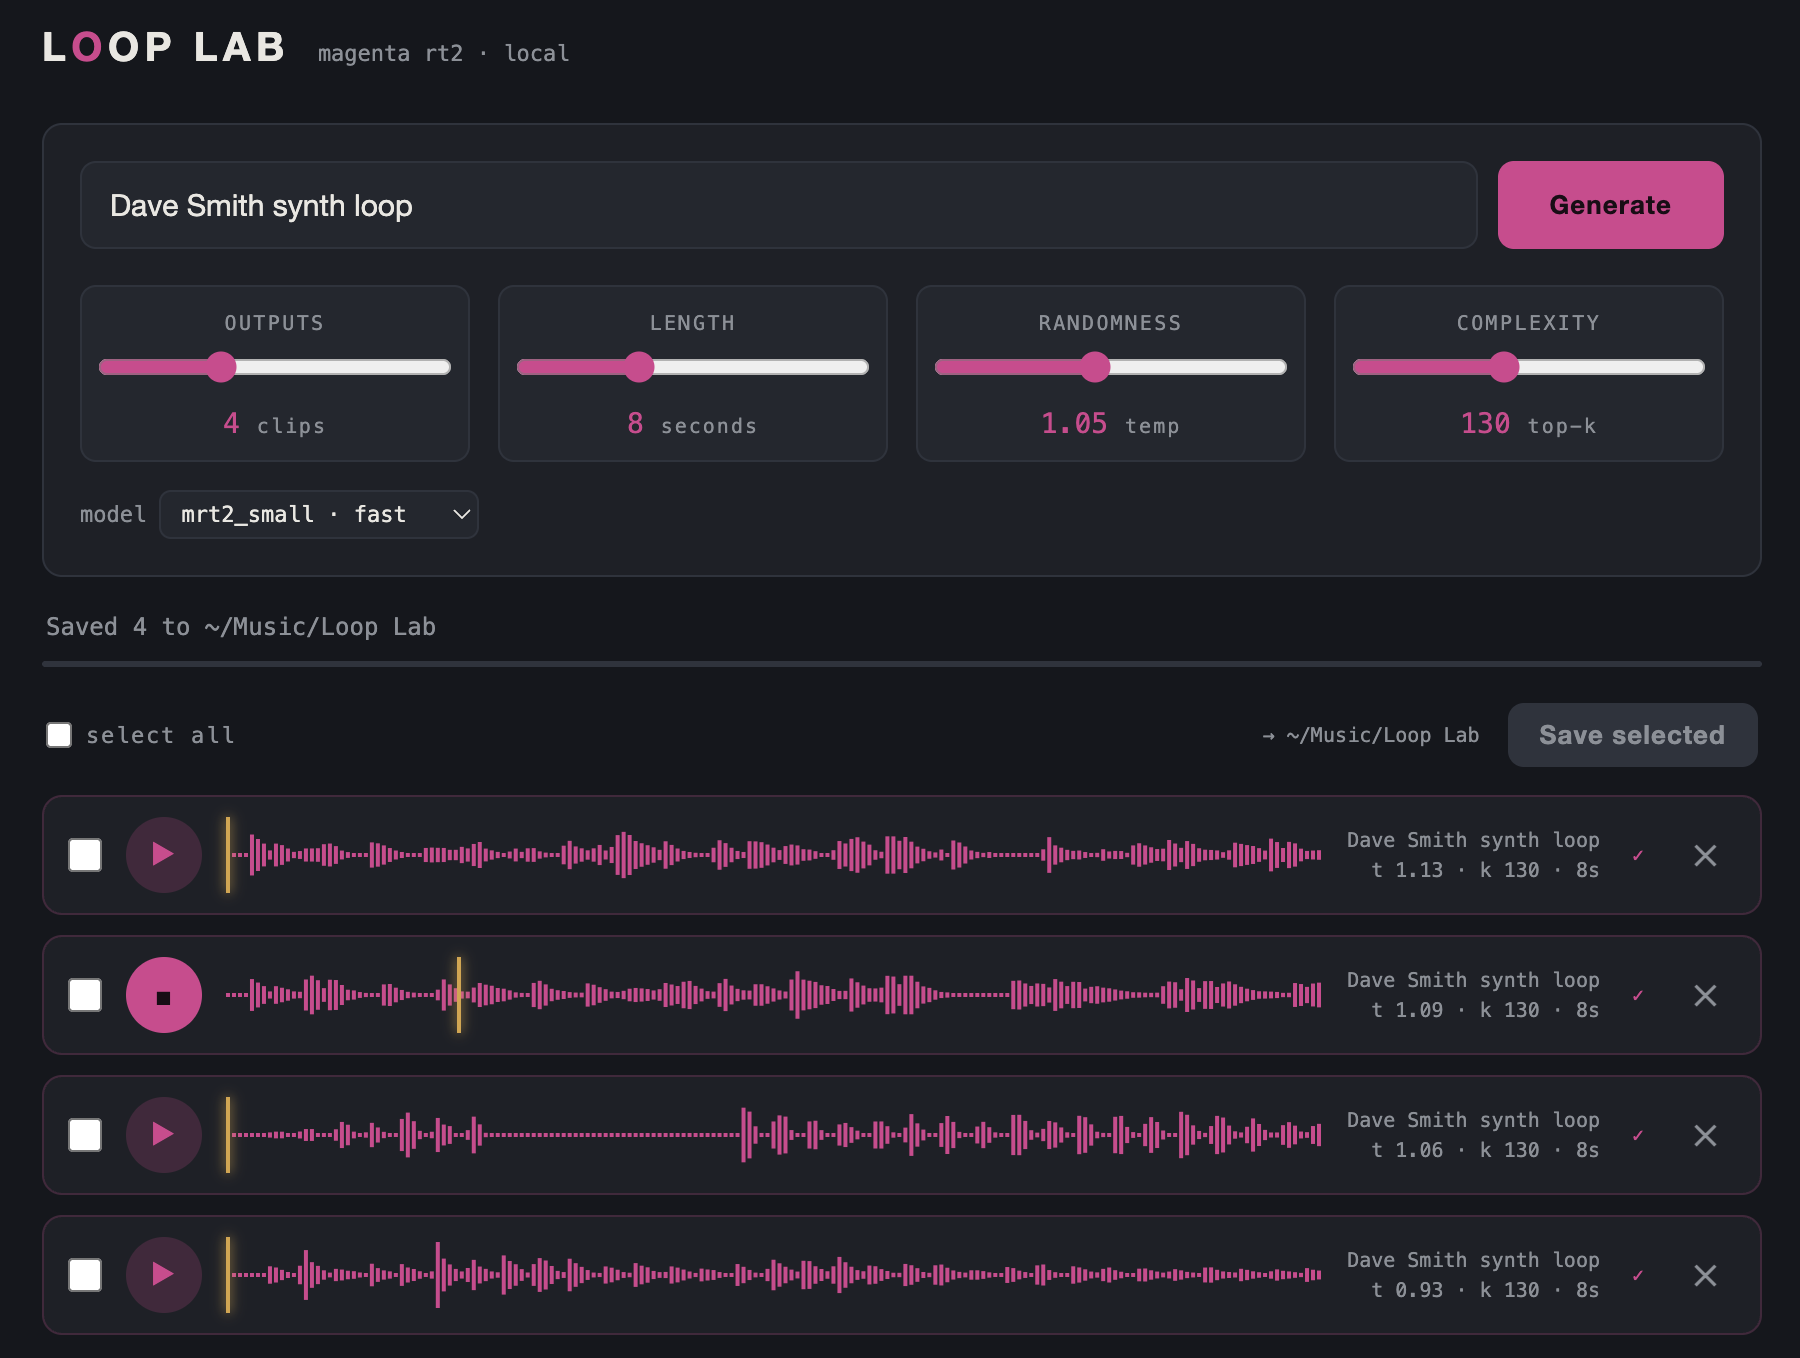
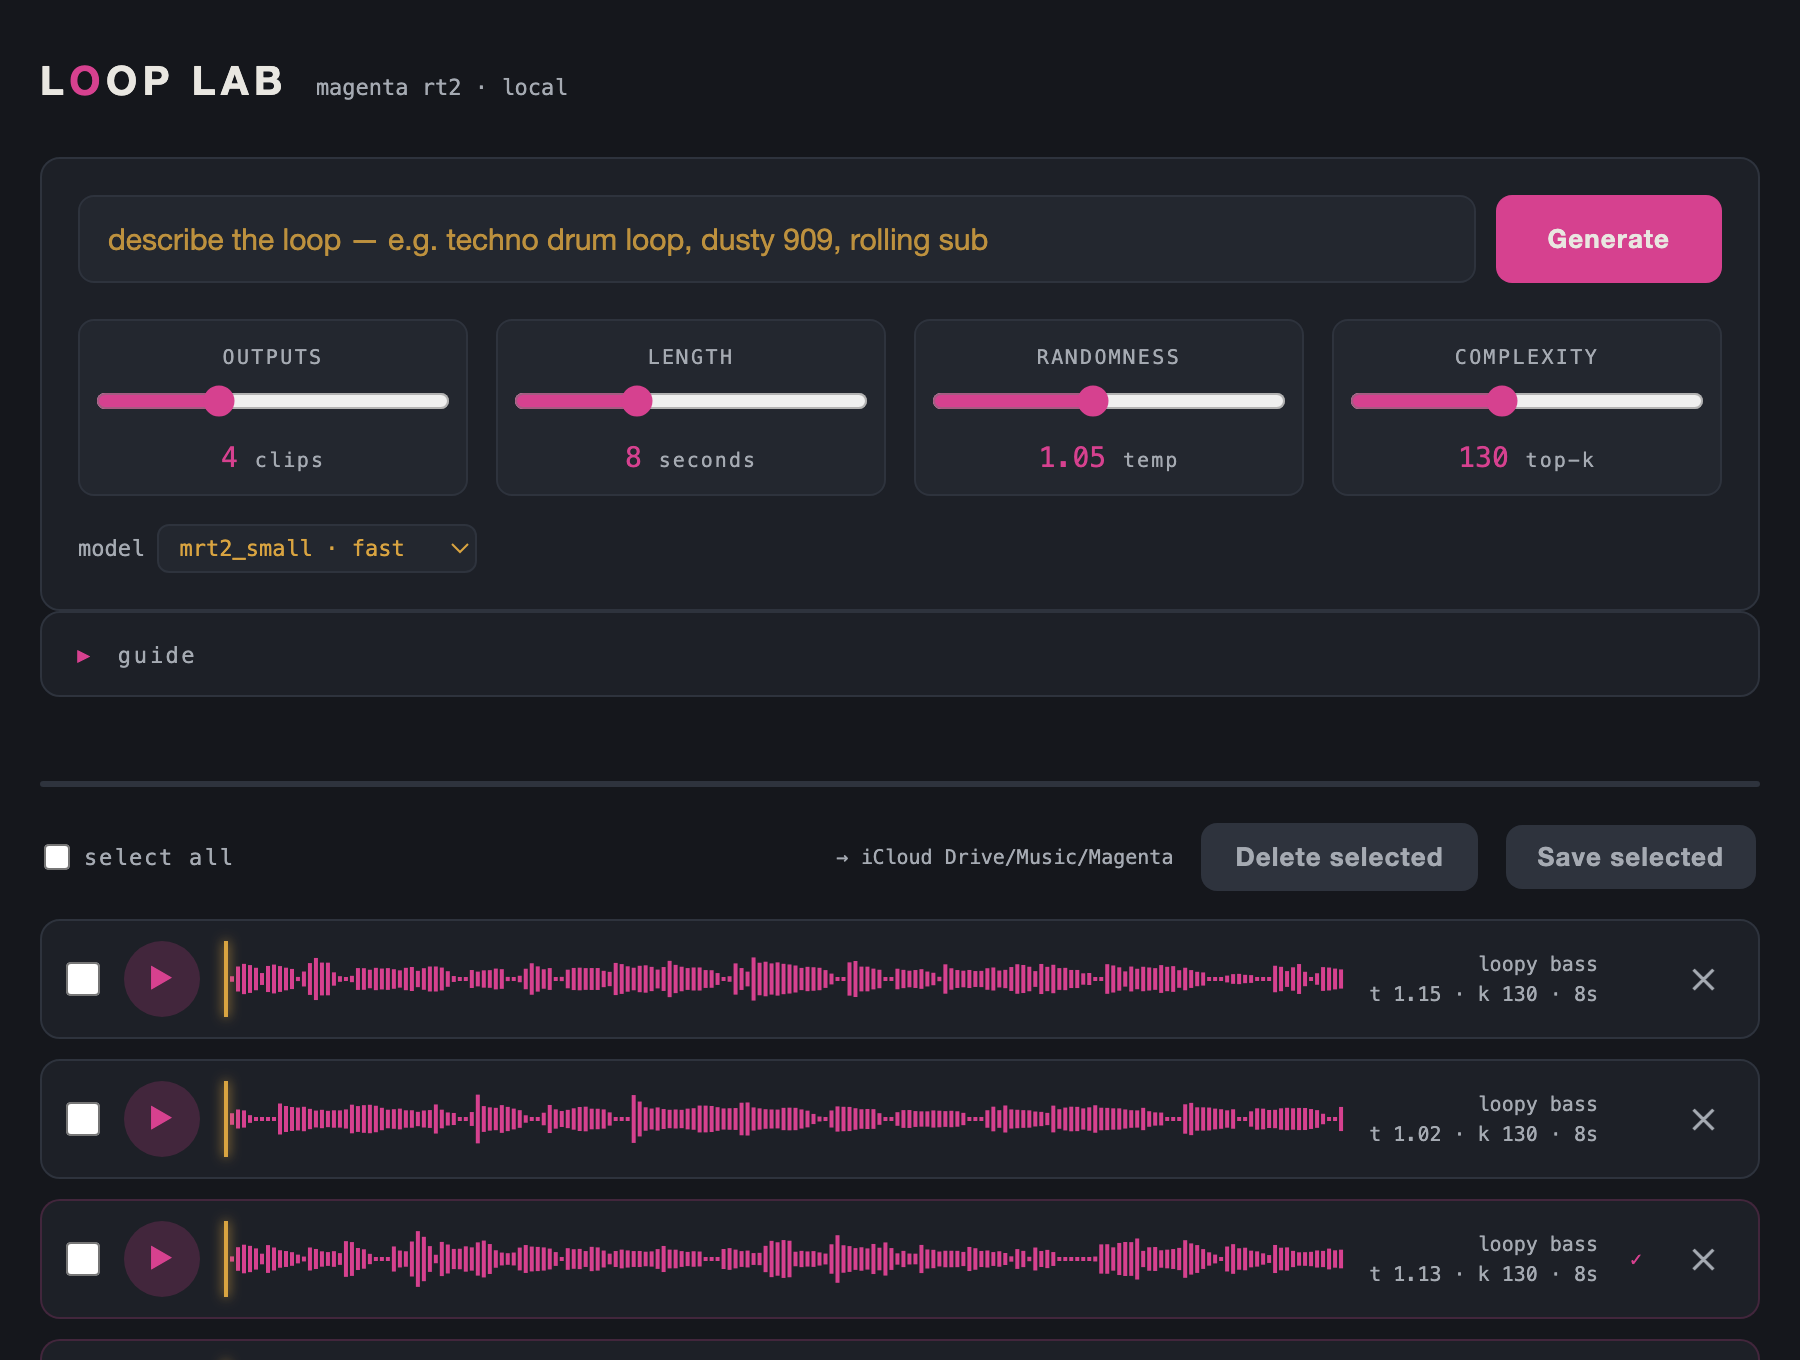
docs: document crop-loop/region + guide in README; refresh demo screenshot

diff --git a/README.md b/README.md
@@ -15,12 +15,10 @@ line each time.
 A 2½-minute walkthrough — generating loops from two prompts ("Liquid 909" and
 "Gangster Rap"), auditioning them, and saving the keepers:
 
-<!-- ⬇ Drag docs/loop-lab-demo.mp4 onto the line below in GitHub's README editor.
-     GitHub replaces it with a https://github.com/user-attachments/assets/… URL that renders as a player. -->
-https://github.com/user-attachments/assets/REPLACE_ME
+[![A prompt box, four faders (outputs, length, randomness, complexity), and a
+list of generated loops with waveforms.](docs/screenshot.png)](https://www.youtube.com/watch?v=P4C_2XStpJY&t=4s)
 
-![A prompt box, four faders (outputs, length, randomness, complexity), and a
-list of generated loops with waveforms.](docs/screenshot.png)
+▶ **[Watch the demo on YouTube](https://www.youtube.com/watch?v=P4C_2XStpJY&t=4s)** (or click the image above).
 
 ## What it does
 
@@ -31,8 +29,13 @@ list of generated loops with waveforms.](docs/screenshot.png)
 - **Four faders, real units.** Outputs (clip count), Length (seconds),
   Randomness (sampling temperature), Complexity (top-k).
 - **Audition in the browser.** Looping playback with a waveform and playhead.
+  Drag across a clip's waveform to select part of it and loop just that region.
+- **Crop on save.** With a region selected, saving writes just that part
+  (sample-accurate); with no region, the whole clip is saved.
 - **Curate.** Tick the keepers and save them to a folder; delete the rest to
   the macOS Trash.
+- **Built-in guide.** A collapsible panel covers the faders, prompt tips, and
+  keeping vs binning clips.
 - **Matched levels.** Every clip is loudness-normalised on generation, so
   drums and synths come out at a consistent volume.
 
@@ -115,6 +118,9 @@ LOOP_LAB_KEEPERS="$HOME/Dropbox/Loops" python loop_lab.py
 - The four faders are deliberately simple mappings onto the two sampling
   controls the CLI exposes (`--temperature`, `--top-k`) plus count and duration.
   Tweak the ranges in `map_settings()` if they don't suit your material.
+- The in-app region loop uses an audio-element seek at the loop point, so there
+  is a tiny gap each cycle — fine for auditioning. The saved crop is gapless and
+  sample-accurate.
 
 ## Licence
 
